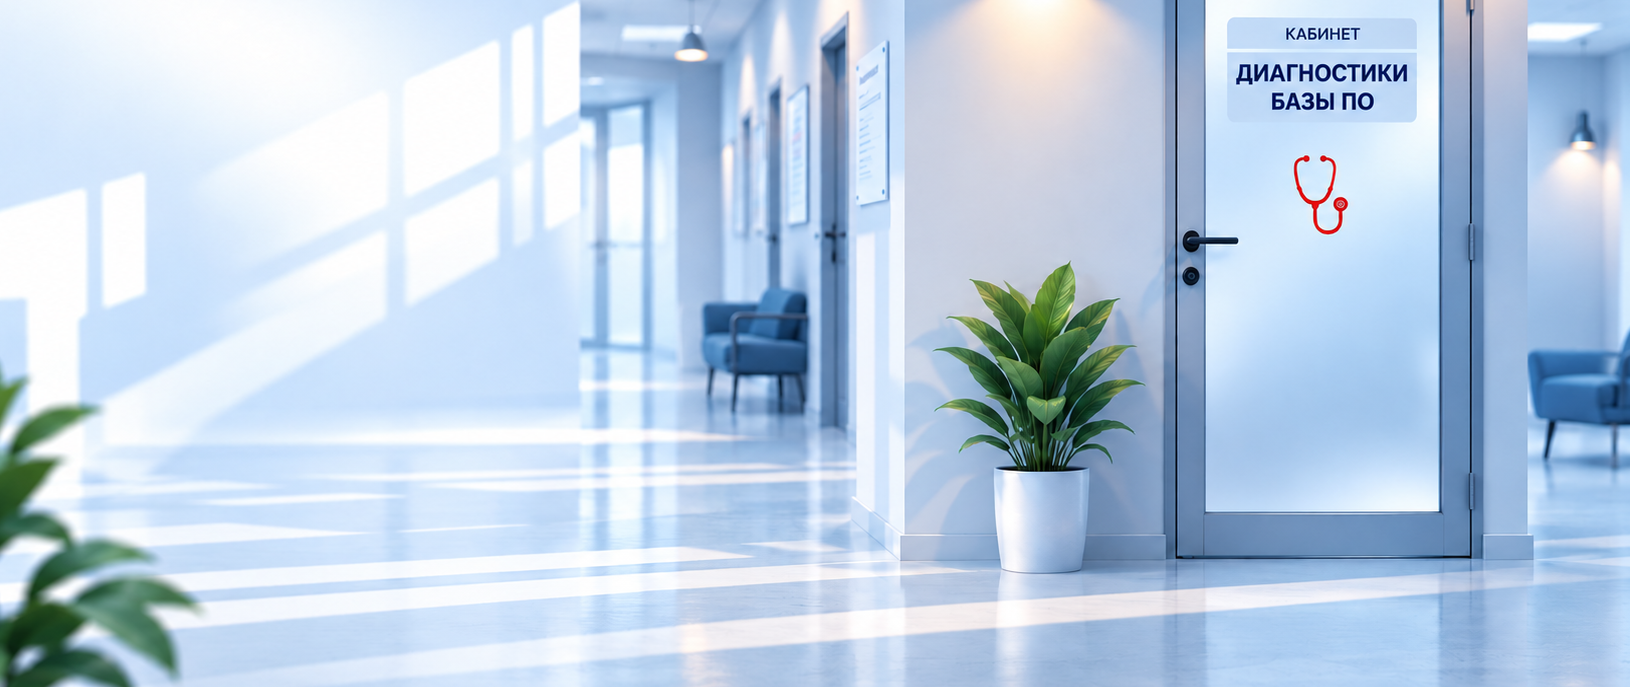
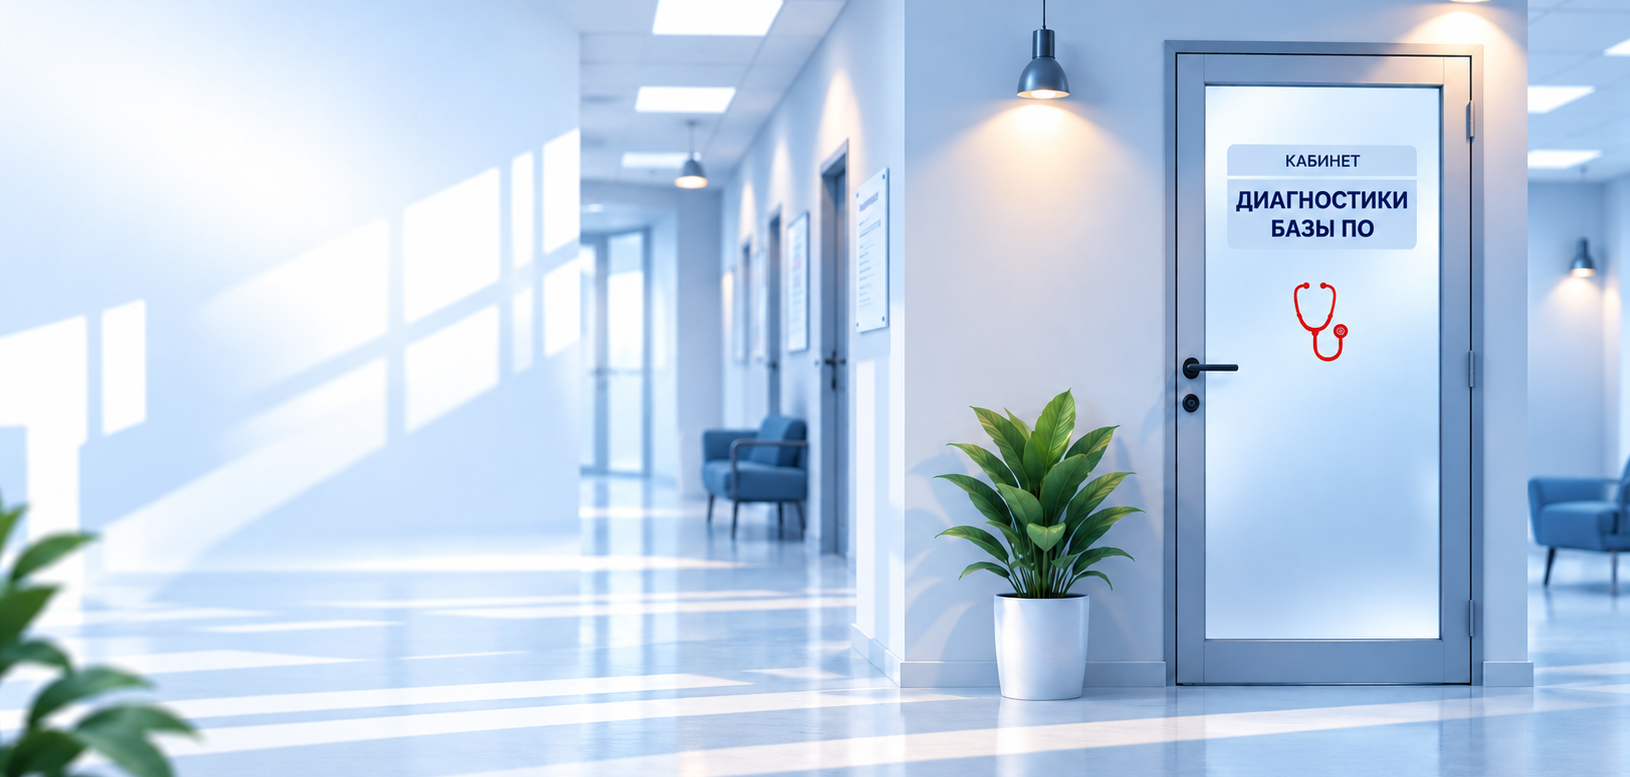
Кабинет: обрезка по низу у горшка, верх оставлен

diff --git a/kabinet-diagnostiki/index.html b/kabinet-diagnostiki/index.html
@@ -7,12 +7,12 @@
   <title>Кабинет диагностики — Клиника чистых данных | ИТМен</title>
   <meta name="description" content="Бесплатный кабинет диагностики базы ПО: загрузите выгрузку, получите индекс чистоты, карту симптомов и сверку с эталонным каталогом. Данные не покидают ваш компьютер.">
   <link rel="icon" href="assets/logo.svg" type="image/svg+xml">
-  <link rel="stylesheet" href="styles.css?v=19">
+  <link rel="stylesheet" href="styles.css?v=20">
 </head>
 <body>
 
 <section class="hero">
-  <img class="hero__bg" src="assets/hero-clinic.png?v=19" alt="" width="1630" height="687" decoding="async" aria-hidden="true">
+  <img class="hero__bg" src="assets/hero-clinic.png?v=20" alt="" width="1630" height="777" decoding="async" aria-hidden="true">
   <div class="hero__veil" aria-hidden="true"></div>
 
   <div class="wrap hero__inner">
